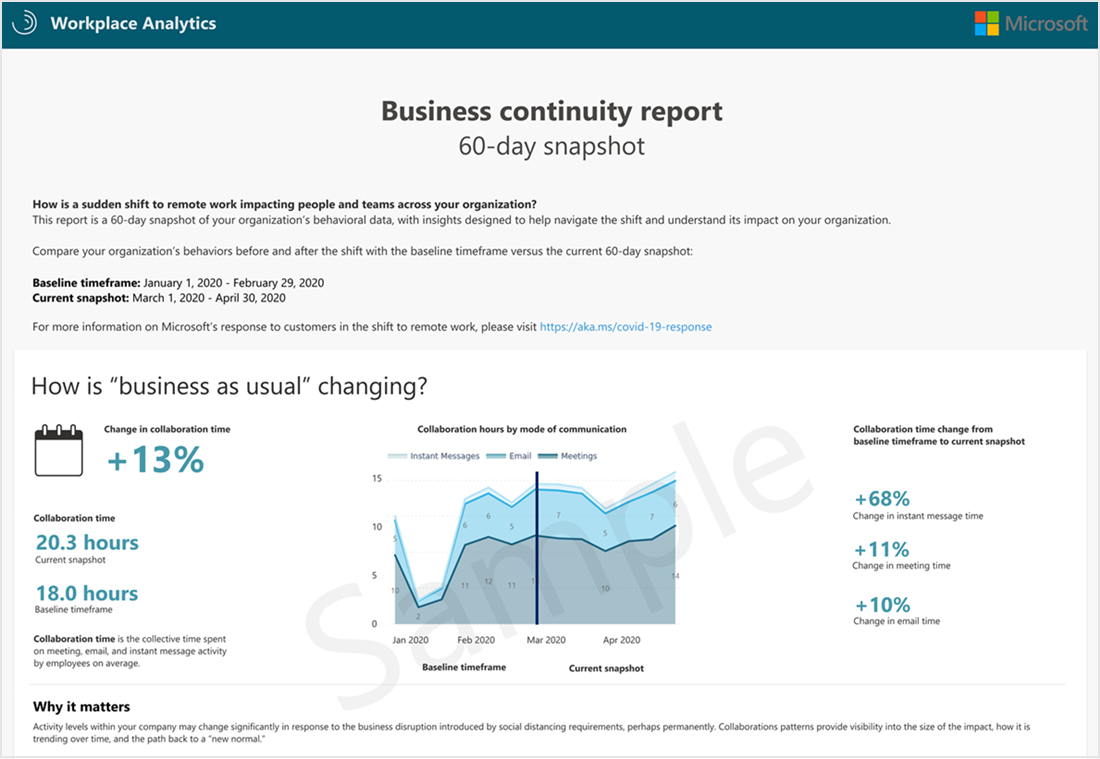
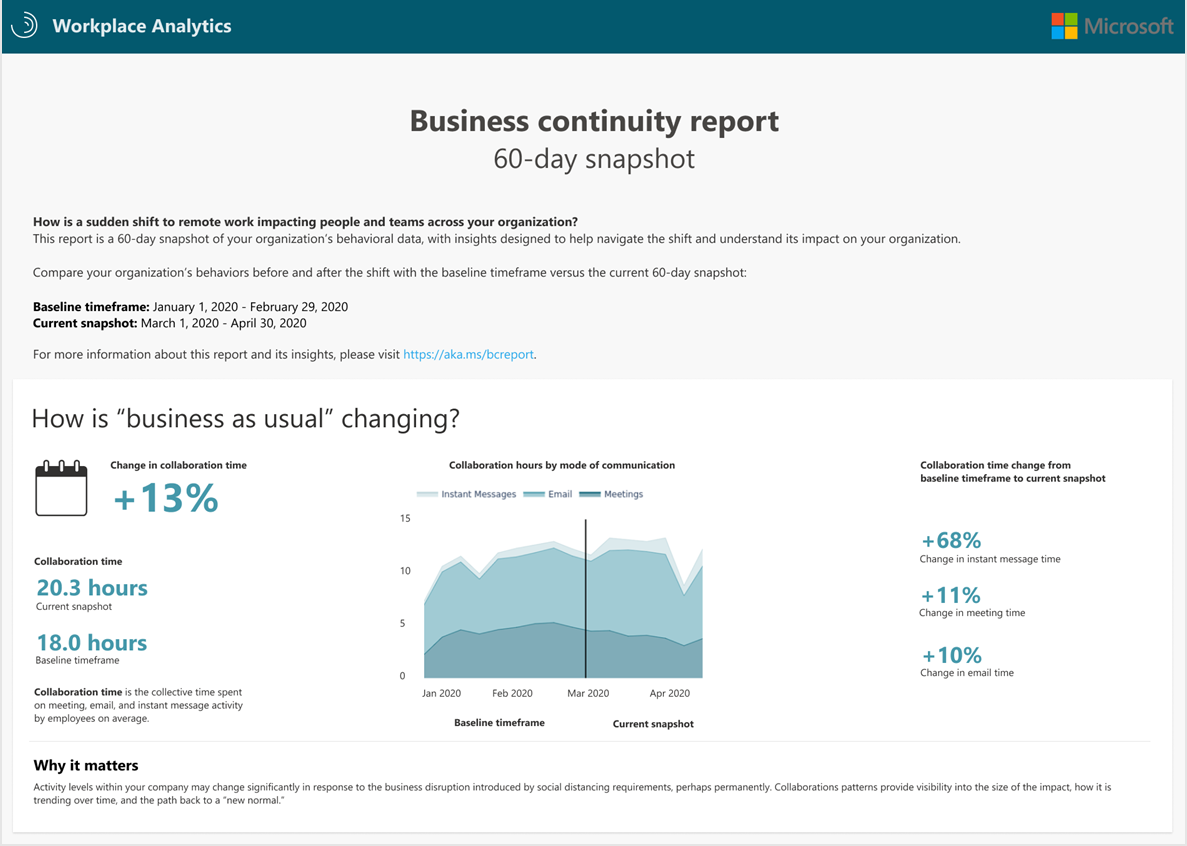
review edits for BC Report

diff --git a/WorkplaceAnalytics/Tutorials/bc-report.md b/WorkplaceAnalytics/Tutorials/bc-report.md
@@ -12,23 +12,27 @@ ms.prod: wpa
 
 # Business continuity report
 
-The Business continuity report analyzes Microsoft Graph data to provide high-level insights about how your organization’s collaboration norms have changed due to the recent global shift in standard business practices. 
+Organizations around the world are responding to sudden changes in the way they work. Microsoft wants to help you understand the business impact and what your organization can do to help navigate the shift to remote work.
 
-This 60-day snapshot helps business leaders answer the following questions:
+The Business Continuity Report is a free Workplace Intelligence report that’s available to Microsoft 365 customers in the Microsoft 365 Admin Center.
 
-* How is "business as usual" changing?  
-* How are employees adapting to the shift?  
-* Are we maintaining external relationships?
+It analyzes Microsoft Graph data to provide high-level insights about how collaboration for an organization has changed between a baseline timeframe of January to February 2020 as compared to a current snapshot of March to April.
+
+This report helps business leaders understand how:
+
+* Business is being impacted by the disruption.
+* Employees are adapting to the shift in work-life balance.
+* Responsiveness to external relationships is impacted, such as with customers, partners, and vendors.
 
 ![Business continuity report](../Images/WpA/Tutorials/bc-report.png)
 
-## About the report 
+The following are a few of the top-level business questions asked by leaders that this dashboard enables you to visualize and explore.
 
-The Business continuity report directionally highlights where shifts in ways of working are having the largest impact, and provides a measurable starting point for identifying where leaders can use tools and processes to support employees in a new way of working.
-
-* **How is 'business as usual' changing?** - Shows the trend in collaboration hours by channel. 
-* **How are employees adapting to the shift?** - Enables you to assess whether some employees are disproportionately affected by measuring their changes in after hours work.
-* **Are we maintaining external relationships?** - Quantifies changes in communication with customers, partners and other people outside the organization.
+|Business question |Analysis |Metrics used |
+|-------------|--------------|-------------|
+|How is business as usual changing? |<ul><li>How are employee collaboration patterns changing in response to a shift in work?  </li><li>Which collaboration tools are people substituting for in-person interaction? |</li><li>Collaboration time is defined as the total time employees spend in meeting, email, and instant message activity per week, on average. </li><li>Collaboration time for meeting activity is the sum of the durations of meetings an employee has on their calendar (not counting meeting time that overlaps). This is shown on average per employee per week. </li><li>Collaboration time for email activity is approximated by 5 minutes per email composed, and 2.5 minutes per email read. This is shown on average per employee per week. </li><li>Collaboration time for instant message activity is approximated by 30 seconds per chat sent and received. This is shown on average per employee per week. |
+|How are employees adapting to this shift in work? |<ul><li>What share of employees are experiencing significant shifts in their weekly work spans and collaboration levels? </li><li>How are working patterns flexing across our collaboration mediums? </li></ul>|After-hours work is defined by the average time an employee spent working outside of their working hours (as set in Outlook). Activity is relative to the time zone of the person who is sending email or instant messages. <br> <br>For example, when a person in the Pacific Standard Time (PST) time zone sends an email at 9 AM PST. That email will register as sent at 9AM on the collaboration time-of-day chart. When a user in the China Standard Time (CST) time zone sends an email at 9 AM CST, it’ll also register as 9 AM on the collaboration time-of-day chart.|
+|Are external relationships being maintained? |Are employees still connecting with customers, partners, and vendors? |External collaboration time is the total time spent on meeting, email, and instant message activity with people who are not within the organization, on average per employee. This activity is calculated the same way as internal collaboration, but only for activity with these external contacts.|
 
 ## Frequently asked questions
 
@@ -36,11 +40,11 @@ The Business continuity report directionally highlights where shifts in ways of 
 
 The report will be uploaded in your Microsoft 365 Admin Center. We will post an Admin Center message when the report is available for download.
 
-#### Q2 Where can I get more information? 
+#### Q2 Where can I get more information?
 
 Contact your account team for more information on how to read the report and get additional insights.
 
-#### Q3 Can I request a new report with a different time range? 
+#### Q3 Can I request a new report with a different time range?
 
 No, the dates in this report are static and cannot be changed at this time.
 
